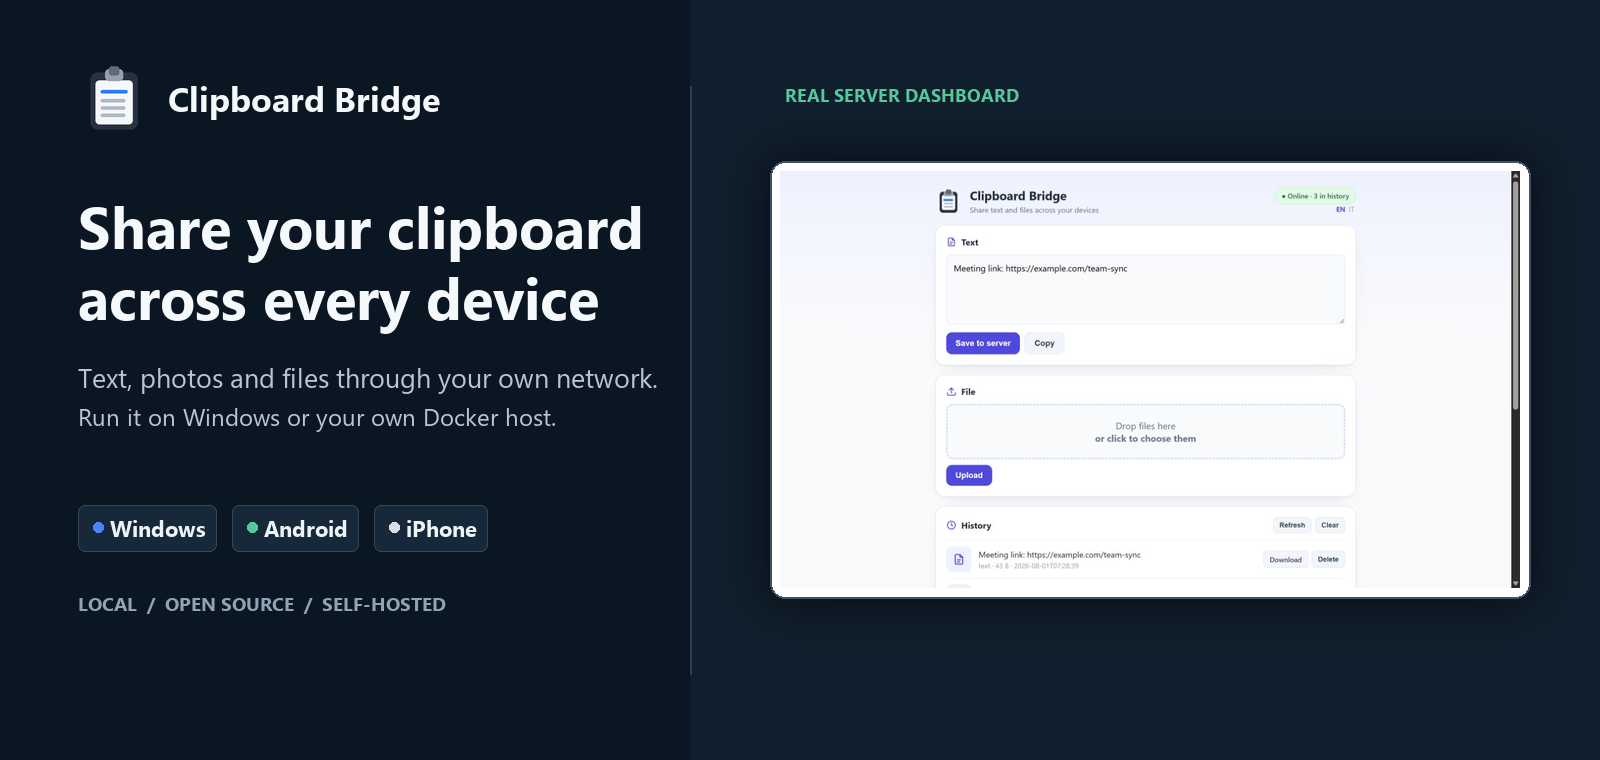
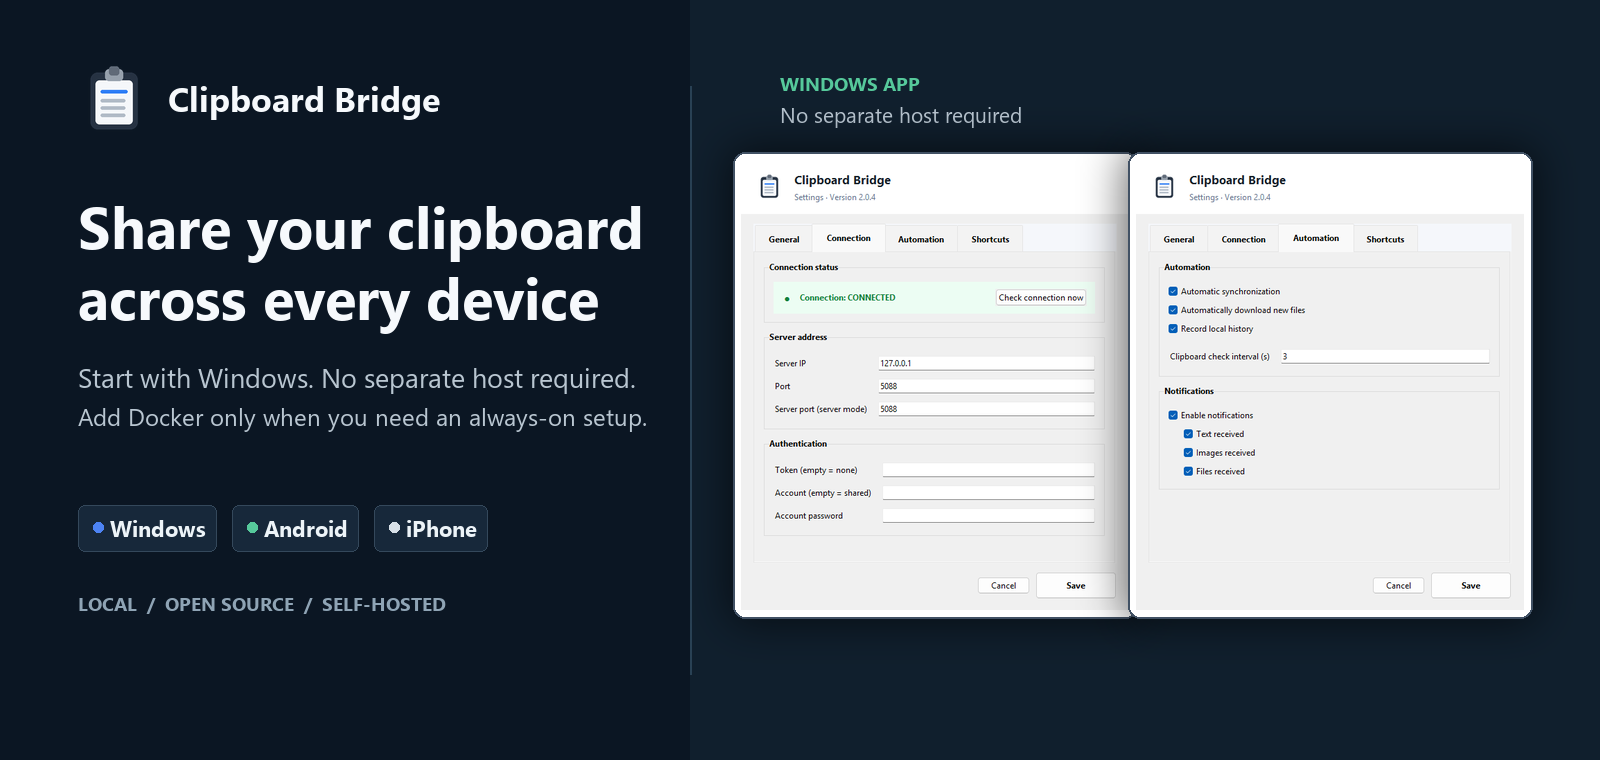
Refocus landing visuals on the Windows app

diff --git a/docs/index.html b/docs/index.html
@@ -74,12 +74,12 @@
     .eyebrow{display:inline-flex;align-items:center;gap:8px;font-size:13px;font-weight:800;text-transform:uppercase;color:#b8d6ff}
     .eyebrow:before{content:"";width:28px;height:3px;background:#53d3a6}
     h1{max-width:500px;font-size:clamp(42px,5vw,60px);line-height:1.03;margin:18px 0 22px;letter-spacing:0}
-    .lead{max-width:500px;font-size:19px;color:#e6eef5;margin:0}
+    .lead{max-width:450px;font-size:19px;color:#e6eef5;margin:0}
     .actions{display:flex;flex-wrap:wrap;gap:12px;margin-top:30px}
     .button{display:inline-flex;align-items:center;justify-content:center;min-height:48px;padding:0 19px;border:1px solid currentColor;border-radius:6px;color:#fff;text-decoration:none;font-weight:750;transition:transform .18s ease,box-shadow .18s ease,background .18s ease}
     .button:hover{transform:translateY(-2px)}
     .button.primary{background:#fff;color:var(--ink);border-color:#fff;box-shadow:0 10px 28px rgba(0,0,0,.18)}
-    .hero-facts{display:flex;flex-wrap:wrap;gap:10px 26px;margin-top:46px;padding-top:24px;border-top:1px solid rgba(255,255,255,.22);max-width:760px}
+    .hero-facts{display:flex;flex-wrap:wrap;gap:10px 22px;margin-top:46px;padding-top:24px;border-top:1px solid rgba(255,255,255,.22);max-width:500px}
     .hero-facts span{font-size:14px;font-weight:700;color:#e6eef5}
     .hero-facts strong{color:#66dfb4}
     main section{padding:84px 24px}
@@ -112,7 +112,7 @@
     .trust-row strong{color:var(--ink)}
     .showcase{display:block}
     .showcase-copy{max-width:760px}
-    .screens{display:grid;grid-template-columns:1.45fr .55fr;gap:22px;align-items:center;margin-top:36px}
+    .screens{display:grid;grid-template-columns:repeat(2,minmax(0,380px));justify-content:center;gap:24px;align-items:center;margin-top:36px}
     .screen{display:block;width:100%;height:auto;max-height:560px;object-fit:contain;background:#fff;border:1px solid var(--line);border-radius:8px;padding:10px;box-shadow:var(--shadow)}
     .visual-explainer{display:block;width:100%;height:auto;margin-top:38px;border:1px solid var(--line);border-radius:8px;background:#fff;box-shadow:0 12px 34px rgba(21,33,43,.08)}
     .flow-line{display:grid;grid-template-columns:1fr auto 1fr;align-items:center;gap:22px;margin-top:38px;padding:26px 0;border-top:1px solid var(--line);border-bottom:1px solid var(--line)}
@@ -157,15 +157,15 @@
     <div class="hero-inner">
       <div class="eyebrow">Open source &middot; Local &middot; Self-hosted</div>
       <h1>Clipboard sharing across every device</h1>
-      <p class="lead">Send and receive text, photos and files between Windows, Android and iPhone through your own network. Use Windows as the server or run Docker or Python.</p>
+      <p class="lead">Start with the Windows app: no separate server is required. Exchange text, photos and files with Android and iPhone, then add Docker or Python only for an always-on setup.</p>
       <div class="actions">
         <a class="button primary" href="#download">Download</a>
         <a class="button" href="#start">See how it works</a>
       </div>
       <div class="hero-facts">
-        <span><strong>Text, photos and files</strong></span>
-        <span><strong>No cloud account</strong></span>
-        <span><strong>Two server modes</strong></span>
+        <span><strong>No separate server</strong></span>
+        <span><strong>Android + iPhone</strong></span>
+        <span><strong>Optional Docker</strong></span>
       </div>
     </div>
   </header>
@@ -281,14 +281,14 @@
     <section id="app-preview">
       <div class="inner showcase">
         <div class="showcase-copy">
-          <span class="section-kicker">Windows and web interface</span>
-          <h2>Clear status, compact settings and a live history</h2>
-          <p class="section-copy">Windows keeps connection, automation and authentication in one settings panel. The standalone server adds a browser dashboard for text, uploads and ordered history. All screens shown here use anonymous demo content.</p>
+          <span class="section-kicker">Windows application</span>
+          <h2>Connection and automation in one settings window</h2>
+          <p class="section-copy">The Windows app keeps server mode, connection status, optional authentication, automatic synchronization and notifications in one place. It works directly with Android and iPhone without requiring a separate host.</p>
           <a class="button" style="color:#1668dc;border-color:#1668dc" href="https://github.com/Mattboxx/Clipboard-Bridge/blob/main/GUIDE.md">Explore the setup guide</a>
         </div>
         <div class="screens">
-          <img class="screen" src="assets/server-dashboard.png" alt="Clipboard Bridge standalone server web dashboard with anonymous demo history">
           <img class="screen" src="assets/windows-connection.png" alt="Clipboard Bridge Windows connection settings using local demo values">
+          <img class="screen" src="assets/windows-automation.png" alt="Clipboard Bridge Windows automation and notification settings">
         </div>
       </div>
     </section>

diff --git a/README.it.md b/README.it.md
@@ -330,8 +330,6 @@ La [guida completa](GUIDE.md) descrive nel dettaglio azioni, foto e file.
 
 ## Server indipendente
 
-![Dashboard web del server Clipboard Bridge con cronologia dimostrativa anonima](docs/assets/server-dashboard.png)
-
 ### Docker Compose
 
 ```bash

diff --git a/README.md b/README.md
@@ -329,8 +329,6 @@ behavior.
 
 ## Standalone server
 
-![Clipboard Bridge standalone server web dashboard with anonymous demo history](docs/assets/server-dashboard.png)
-
 ### Docker Compose
 
 ```bash
